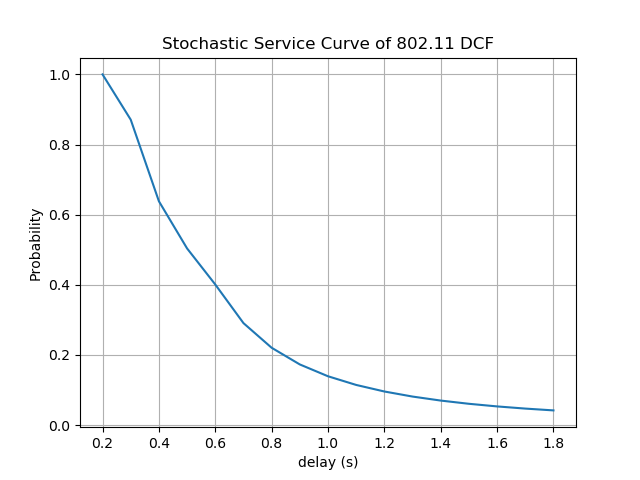
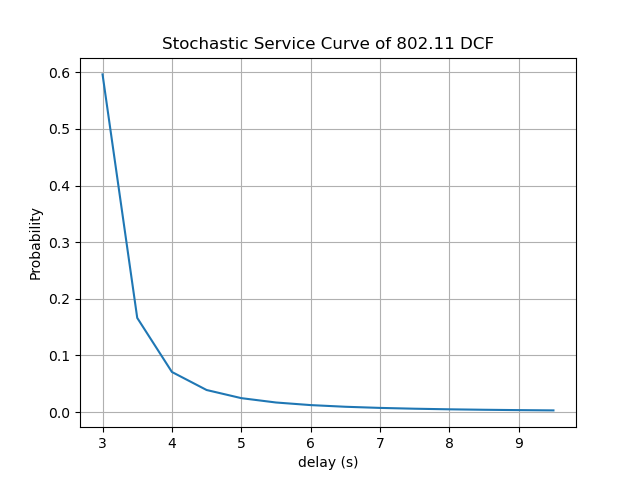
Modify some unit related erros

diff --git a/dcf_delay.py b/dcf_delay.py
@@ -45,7 +45,7 @@ def get_X_first_moment(n, pc, sigma, ts, tc):
     return: M_X1
     """
     p_suc = get_success_prob(n, get_trans_prob(n, pc))
-    return (1 - pc) * sigma + p_suc * (ts - tc) + pc * tc
+    return ((1 - pc) + p_suc * (ts - tc) + pc * tc) * sigma
 
 def get_X_second_moment(n, pc, sigma, ts, tc):
     """
@@ -59,9 +59,9 @@ def get_X_second_moment(n, pc, sigma, ts, tc):
     return: M_X2
     """
     p_suc = get_success_prob(n, get_trans_prob(n, pc))
-    return (1 - pc) * sigma * sigma + \
-        p_suc * (ts * ts - tc * tc) + \
-        pc * tc * tc
+    return ((1 - pc) + 
+        p_suc * (ts * ts - tc * tc) + 
+        pc * tc * tc) * sigma * sigma
 
 def get_BI_first_moment(n, pc, k, m, cw, sigma, ts, tc):
     """

diff --git a/main.py b/main.py
@@ -15,9 +15,9 @@ ts = 256
 # channel busy slot number because of collision
 tc = 5
 
-sigma = 0.0001 # slot duration (unit: second)
+sigma = 0.01 # slot duration (unit: second)
 
-xs = range(2000, 19000, 1000)
+xs = range(300, 1000, 50)
 p1 = [dcf_delay_bound(x, n, k, m, cw, ts, tc, sigma) for x in xs]
 # p2 = [service_bound2(x, n, k, m, cw, ts, tc, sigma) for x in xs]
 
